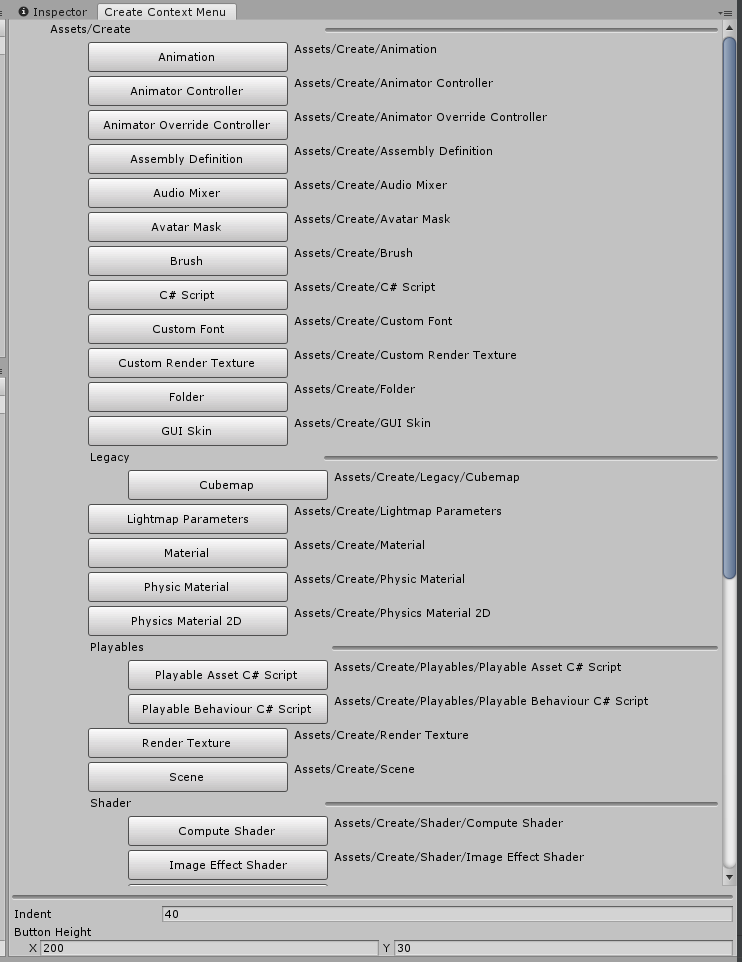
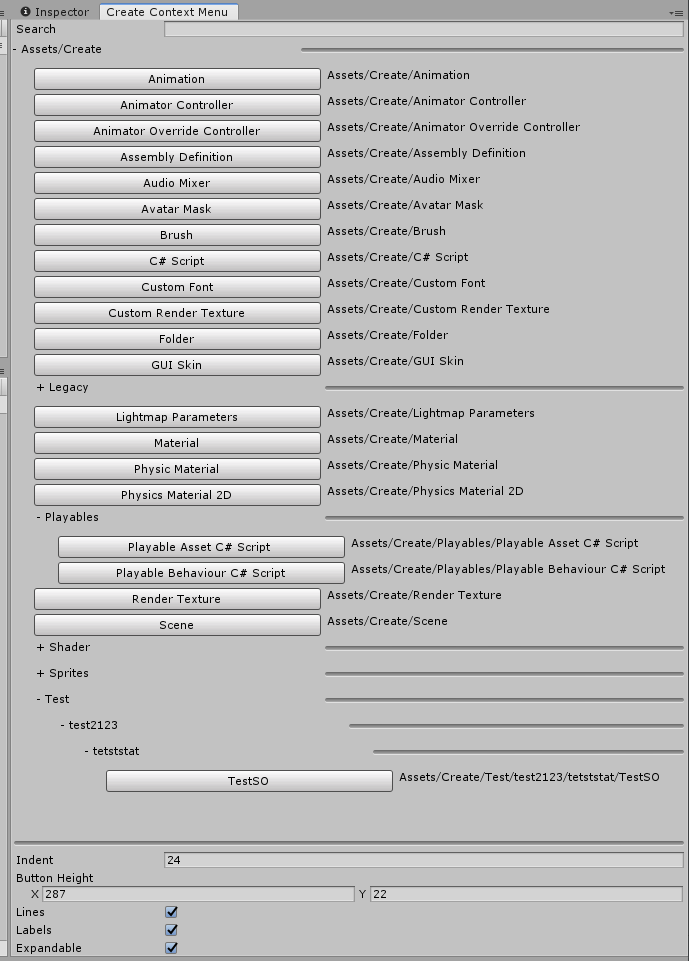
Search, Expanded, EditorPrefs

Changed region(s): [[0.0, 0.0, 1.0, 1.0]]

diff --git a/Editor/ContextMenuWindow.cs b/Editor/ContextMenuWindow.cs
@@ -1,18 +1,24 @@
-using System.Collections.Generic;
+using System;
+using System.Collections.Generic;
 using System.Reflection;
 using UnityEditor;
 using UnityEngine;
+using Object = UnityEngine.Object;
 
 namespace Editor
 {
     public class ContextMenuWindow : EditorWindow
     {
+        private const string TYPE_NAME = nameof(ContextMenuWindow);
         private const string TAB = "    ";
 
+        [Serializable]
         private class NestedString
         {
             public string Value;
             public string Name;
+            public string ValueLower;
+            public bool IsExpanded;
             public int Depth;
             public NestedString Parent;
             public List<NestedString> Children = new List<NestedString>();
@@ -23,10 +29,15 @@ namespace Editor
             }
         }
 
+        [SerializeField] private string _filter;
+        private string _filterLower;
         [SerializeField] private Vector2Int ButtonSize = new Vector2Int(200, 20);
         [SerializeField] private int Indent = 15;
+        [SerializeField] private bool ShowLines;
+        [SerializeField] private bool ShowLabels;
+        [SerializeField] private bool UseExpandable;
 
-        private NestedString Data = new NestedString("Assets/Create");
+        [SerializeField] private NestedString Data = new NestedString("Assets/Create") {IsExpanded = true};
         private Vector2 scroll;
 
         [MenuItem("Window/Create Context Menu Window")]
@@ -38,8 +49,62 @@ namespace Editor
 
         void OnEnable()
         {
-            titleContent = new GUIContent("Create Context Menu");
+            LoadSettings();
 
+            titleContent = new GUIContent("Create Context Menu");
+            CollectBuiltInItems();
+        }
+
+        private void LoadSettings()
+        {
+            string key = $"{TYPE_NAME}_Indent";
+            if (EditorPrefs.HasKey(key)) Indent = EditorPrefs.GetInt(key, Indent);
+
+            key = $"{TYPE_NAME}_ButtonSize.x";
+            if (EditorPrefs.HasKey(key)) ButtonSize.x = EditorPrefs.GetInt(key, ButtonSize.x);
+            key = $"{TYPE_NAME}_ButtonSize.y";
+            if (EditorPrefs.HasKey(key)) ButtonSize.y = EditorPrefs.GetInt(key, ButtonSize.y);
+
+            key = $"{TYPE_NAME}_ShowLines";
+            if (EditorPrefs.HasKey(key)) ShowLines = EditorPrefs.GetBool(key, ShowLines);
+            key = $"{TYPE_NAME}_ShowLabels";
+            if (EditorPrefs.HasKey(key)) ShowLabels = EditorPrefs.GetBool(key, ShowLabels);
+            key = $"{TYPE_NAME}_UseExpandable";
+            if (EditorPrefs.HasKey(key)) UseExpandable = EditorPrefs.GetBool(key, UseExpandable);
+        }
+
+        private void DrawSettings()
+        { 
+            DrawLine();
+
+            EditorGUI.BeginChangeCheck();
+            Indent = EditorGUILayout.IntField("Indent", Indent);
+            if (EditorGUI.EndChangeCheck()) EditorPrefs.SetInt($"{TYPE_NAME}_Indent", Indent);
+            EditorGUI.BeginChangeCheck();
+            ButtonSize = EditorGUILayout.Vector2IntField("Button Height", ButtonSize);
+
+            if (EditorGUI.EndChangeCheck())
+            {
+                //Debug.Log($"set {ButtonSize.x}");
+                EditorPrefs.SetInt($"{TYPE_NAME}_ButtonSize.x", ButtonSize.x);
+                EditorPrefs.SetInt($"{TYPE_NAME}_ButtonSize.y", ButtonSize.y);
+            }
+
+            EditorGUI.BeginChangeCheck();
+            ShowLines = EditorGUILayout.Toggle("Lines", ShowLines);
+            if (EditorGUI.EndChangeCheck()) EditorPrefs.SetBool($"{TYPE_NAME}_ShowLines", ShowLines);
+
+            EditorGUI.BeginChangeCheck();
+            ShowLabels = EditorGUILayout.Toggle("Labels", ShowLabels);
+            if (EditorGUI.EndChangeCheck()) EditorPrefs.SetBool($"{TYPE_NAME}_ShowLabels", ShowLabels);
+
+            EditorGUI.BeginChangeCheck();
+            UseExpandable = EditorGUILayout.Toggle("Expandable", UseExpandable);
+            if (EditorGUI.EndChangeCheck()) EditorPrefs.SetBool($"{TYPE_NAME}_UseExpandable", UseExpandable);
+        }
+
+        void CollectBuiltInItems()
+        {
             string stringData = EditorGUIUtility.SerializeMainMenuToString();
 
 
@@ -87,6 +152,8 @@ namespace Editor
                 if (newDepth == previous.Depth)
                 {
                     current.Value = lastParent.Value + '/' + current.Value;
+                    current.ValueLower = current.Value.ToLowerInvariant();
+
                     current.Parent = lastParent;
                     lastParent.Children.Add(current);
 
@@ -101,18 +168,21 @@ namespace Editor
 
                         while (current.Depth - temp.Depth != 1)
                         {
-                            temp = temp.Parent;
+                            Debug.Log($"temp '{temp.Name}' | temp {temp.Depth} | current {current.Depth}");
 
-                            //Debug.Log($"temp '{temp.Name}' | temp {temp.Depth} | current {current.Depth}");
+                            if (temp.Parent == null) break;
+
+                            temp = temp.Parent;
                         }
 
                         lastParent = temp;
 
-                        //Debug.Log($"new last parent 2 '{temp.Name}'");
+                        Debug.Log($"new last parent 2 '{temp.Name}'");
                     }
                     else
                     {
                         current.Value = previous.Value + '/' + current.Value;
+                        current.ValueLower = current.Value.ToLowerInvariant();
                         current.Parent = previous;
                         previous.Children.Add(current);
                         lastParent = previous;
@@ -129,34 +199,73 @@ namespace Editor
 
         void OnGUI()
         {
+            DrawSearch();
             scroll = GUILayout.BeginScrollView(scroll);
             int index = 0;
-            Draw(Data,ref index);
+            Draw(Data, ref index);
             GUILayout.EndScrollView();
-            DrawLine();
-            Indent = EditorGUILayout.IntField("Indent", Indent);
-            ButtonSize = EditorGUILayout.Vector2IntField("Button Height", ButtonSize);
+            DrawSettings();
         }
 
-        private void Draw(NestedString target,ref int index)
+        private void DrawSearch()
         {
+            EditorGUI.BeginChangeCheck();
+
+            string newFilter = EditorGUILayout.TextField("Search", _filter);
+
+            if (EditorGUI.EndChangeCheck())
+            {
+                _filter = newFilter;
+                _filterLower = _filter.ToLowerInvariant();
+            }
+        }
+
+        private void Draw(NestedString target, ref int index)
+        {
+            if (target.Children.Count ==0 && !string.IsNullOrEmpty(_filterLower) && !target.ValueLower.Contains(_filterLower)) return;
+                
             GUILayout.BeginHorizontal(GUILayout.MaxWidth(position.width));
-            GUILayout.Space(target.Depth * Indent);
-   
+            GUILayout.Space((target.Depth - 1) * Indent);
+
             if (target.Children.Count > 0)
             {
-                GUILayout.Label(target.Name);
-                DrawLine();
+                if (UseExpandable)
+                {
+                    if (GUILayout.Button($"{(target.IsExpanded?'-':'+')} {target.Name}","label", GUILayout.Height(ButtonSize.y), GUILayout.Width(ButtonSize.x)))
+                    {
+                        target.IsExpanded = !target.IsExpanded;
+                    }
+                }
+                else
+                {
+                    GUILayout.Label(target.Name);
+                }
+
+                if (ShowLines)
+                {
+                    DrawLine();
+                }
             }
             else
             {
-                if (GUILayout.Button(target.Name, GUILayout.Height(ButtonSize.y), GUILayout.Width(ButtonSize.x)))
+                if (ShowLabels)
                 {
-                    Selection.activeObject = GetSelectedPathOrFallback();
-                    EditorApplication.ExecuteMenuItem(target.Value);
-                }
+                    if (GUILayout.Button(target.Name, GUILayout.Height(ButtonSize.y), GUILayout.Width(ButtonSize.x)))
+                    {
+                        Selection.activeObject = GetSelectedPathOrFallback();
+                        EditorApplication.ExecuteMenuItem(target.Value);
+                    }
 
-                GUILayout.Label(target.Value);
+                    GUILayout.Label(target.Value);
+                }
+                else
+                {
+                    if (GUILayout.Button(target.Name, GUILayout.Height(ButtonSize.y)))
+                    {
+                        Selection.activeObject = GetSelectedPathOrFallback();
+                        EditorApplication.ExecuteMenuItem(target.Value);
+                    } 
+                }
             }
 
             GUI.backgroundColor = Color.white;
@@ -164,9 +273,12 @@ namespace Editor
             GUILayout.EndHorizontal();
 
             index++;
+
+            if (UseExpandable && !target.IsExpanded && string.IsNullOrEmpty(_filter)) return;
+
             foreach (NestedString child in target.Children)
             {
-                Draw(child,ref index);
+                Draw(child, ref index);
             }
         }
 
